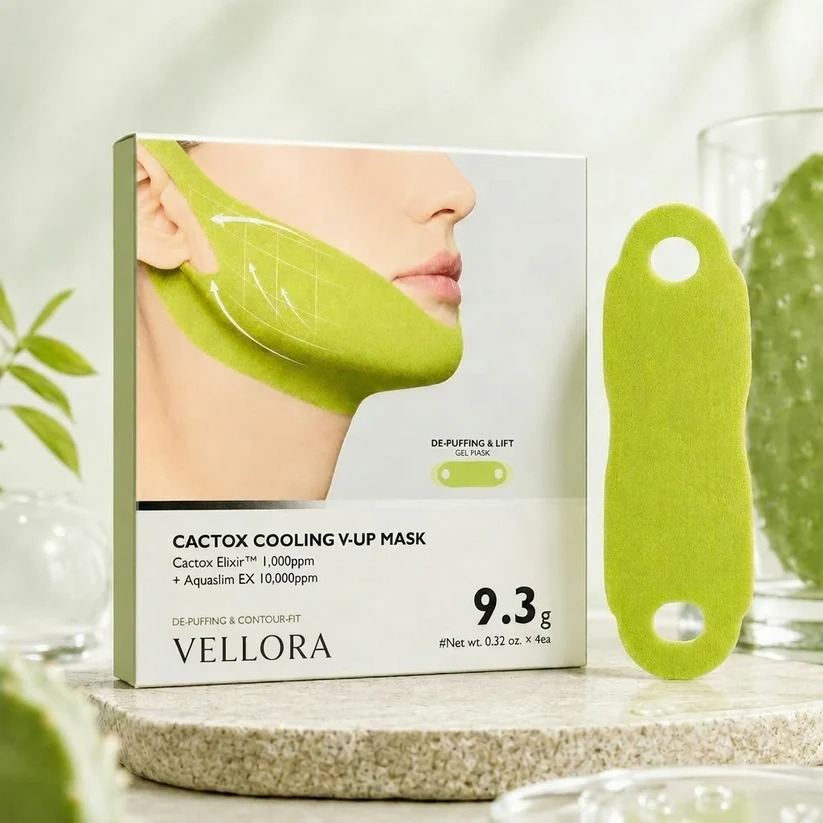
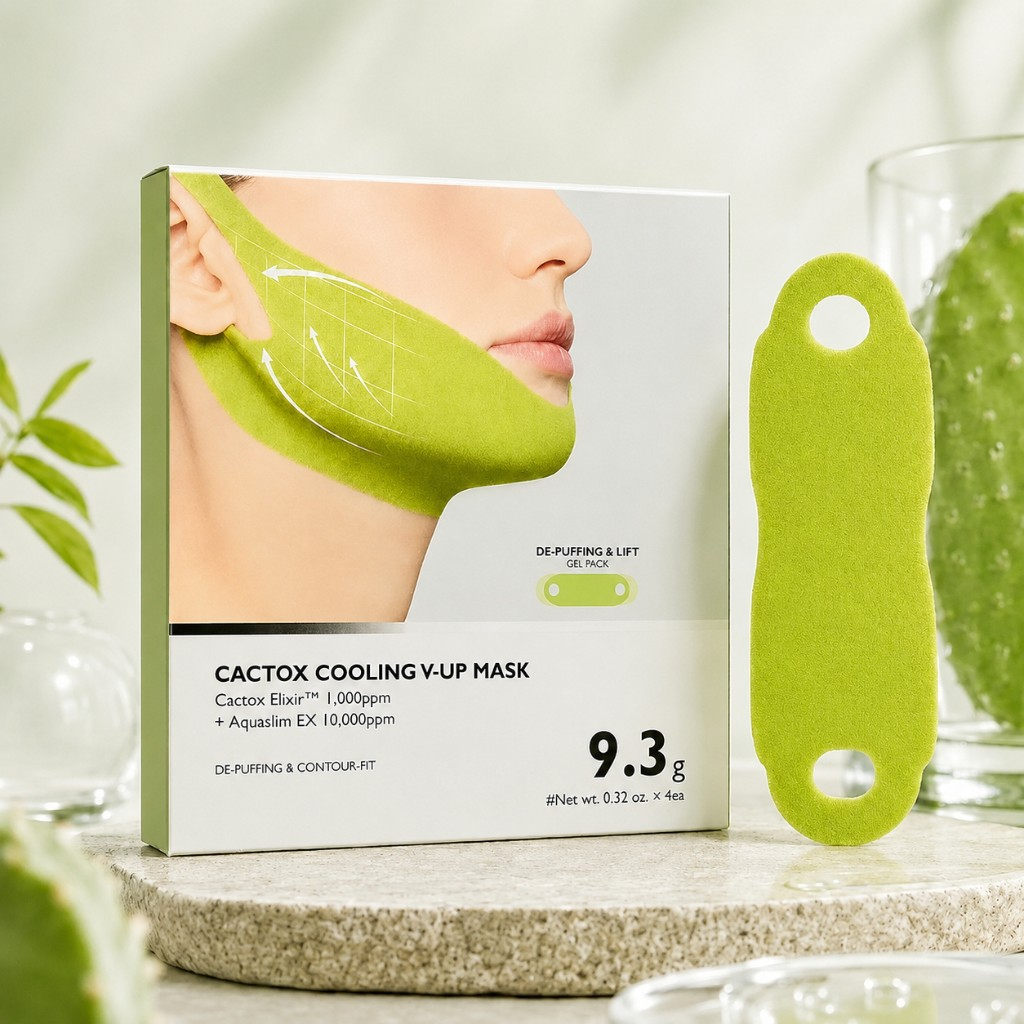
Replace Cactox hero image with Vellora-free product photo.

diff --git a/cactox-v-lifting.html b/cactox-v-lifting.html
@@ -42,7 +42,7 @@
     <section class="gallery" id="heroSection">
       <div class="gallery-stage" id="galleryTrack">
         <div class="slide">
-          <img class="is-contain" src="/images/cactox-hero.png" alt="Cactox V-Lifting Band — caja con 4 bandas de mentón">
+          <img class="is-contain" src="/images/cactox-hero.png?v=20260822a" alt="Cactox V-Lifting Band — caja con 4 bandas de mentón">
         </div>
         <div class="slide">
           <img src="/images/cactox-benefits.png" alt="Beneficios: define mandíbula, reduce papada, efecto lifting" loading="lazy">
@@ -65,7 +65,7 @@
       </div>
       <div class="gallery-dots" id="galleryDots" aria-hidden="true"></div>
       <div class="gallery-thumbs">
-        <button type="button" class="thumb is-active" aria-label="Producto"><img src="/images/cactox-hero.png" alt=""></button>
+        <button type="button" class="thumb is-active" aria-label="Producto"><img src="/images/cactox-hero.png?v=20260822a" alt=""></button>
         <button type="button" class="thumb" aria-label="Beneficios"><img src="/images/cactox-benefits.png" alt=""></button>
         <button type="button" class="thumb" aria-label="Ingredientes"><img src="/images/cactox-ingredient.png" alt=""></button>
         <button type="button" class="thumb" aria-label="Resultados"><img src="/images/cactox-results.png" alt=""></button>
@@ -136,7 +136,7 @@
         <video src="/videos/cactox-4.mp4" muted playsinline loop autoplay preload="metadata" poster="/images/cactox-results.png"></video>
       </article>
       <article class="ugc-card">
-        <video src="/videos/cactox-1.mp4" muted playsinline loop autoplay preload="metadata" poster="/images/cactox-hero.png"></video>
+        <video src="/videos/cactox-1.mp4" muted playsinline loop autoplay preload="metadata" poster="/images/cactox-hero.png?v=20260822a"></video>
       </article>
       <article class="ugc-card">
         <video src="/videos/cactox-2.mp4" muted playsinline loop autoplay preload="metadata" poster="/images/cactox-benefits.png"></video>
@@ -412,7 +412,7 @@
 
     <div class="order-body">
       <div class="order-product">
-        <img src="/images/cactox-hero.png" alt="">
+        <img src="/images/cactox-hero.png?v=20260822a" alt="">
         <div>
           <strong>Cactox V-Lifting Band</strong>
           <span>4 bandas reutilizables · Envío gratis</span>

diff --git a/thank-you-compraconfio.html b/thank-you-compraconfio.html
@@ -133,7 +133,7 @@
     var productId = p.get('productId') || p.get('bundleOption') || '';
     var source = p.get('source') || '';
     var productImages = {
-      'cc-cactox': '/images/cactox-hero.png',
+      'cc-cactox': '/images/cactox-hero.png?v=20260822a',
       'cc-voyage': '/images/voyage-hero-1.png',
       'cc-purple': '/images/purple-hero-1.png',
       'cc-deoxy': '/images/deoxy-hero-1.png',
@@ -141,7 +141,7 @@
       'cc-mascara': '/images/mascara-product.png'
     };
     var sourceImages = {
-      'cactox-v-lifting': '/images/cactox-hero.png',
+      'cactox-v-lifting': '/images/cactox-hero.png?v=20260822a',
       'voyage-nova': '/images/voyage-hero-1.png',
       'purple-mouthwash': '/images/purple-hero-1.png',
       'deoxyribose-serum': '/images/deoxy-hero-1.png',
